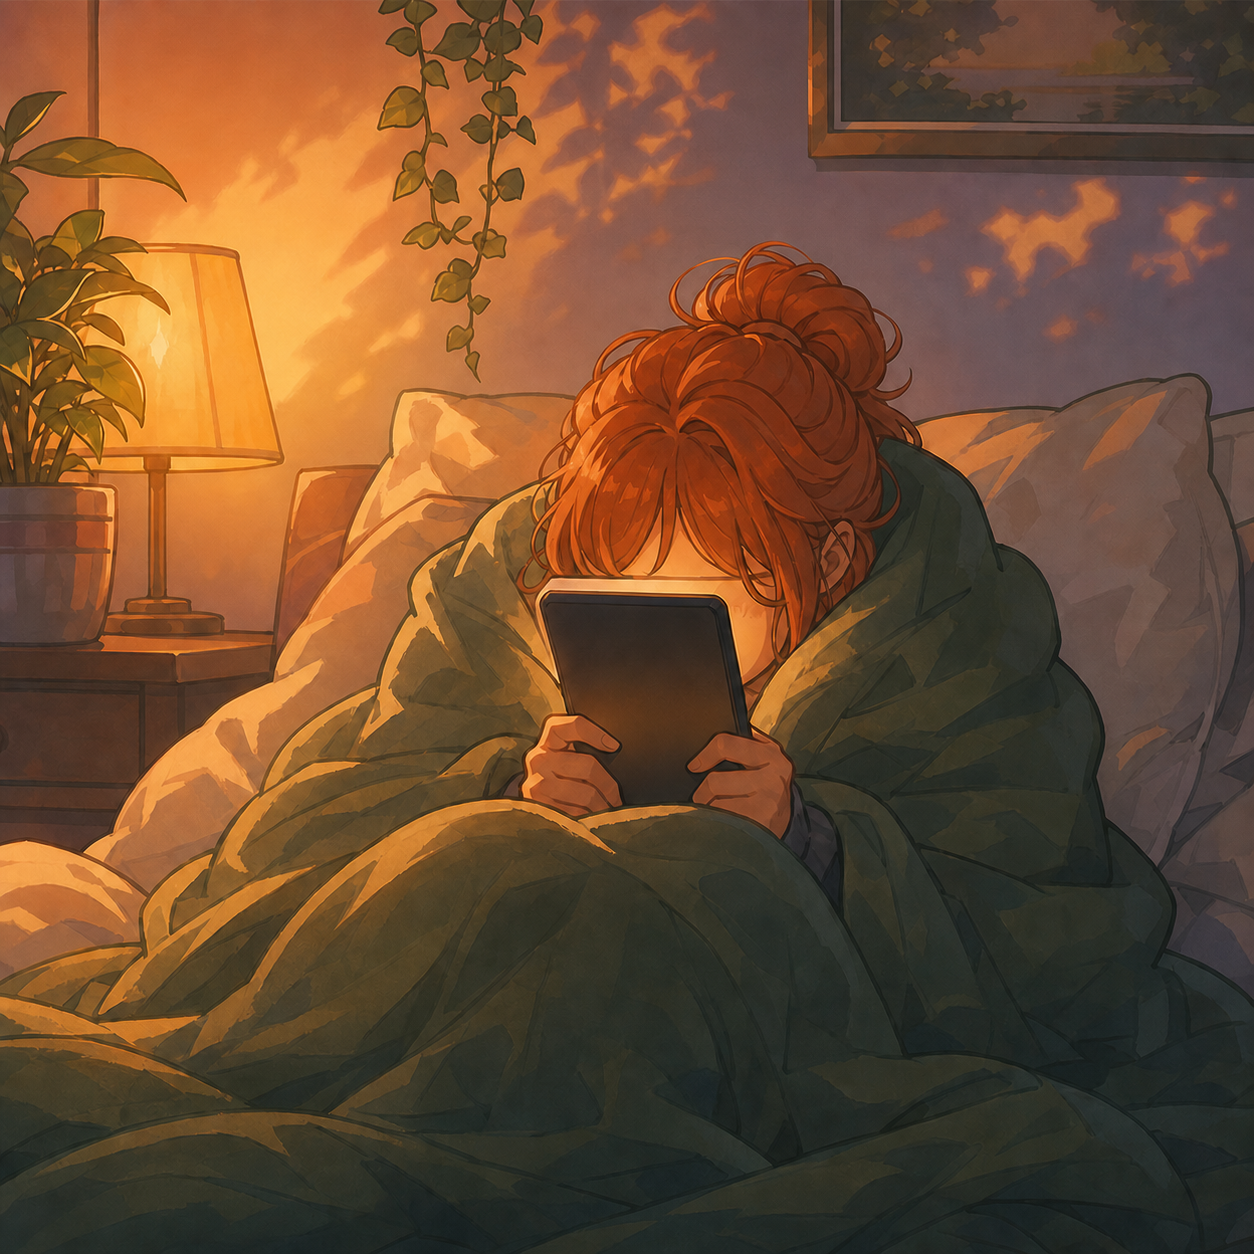
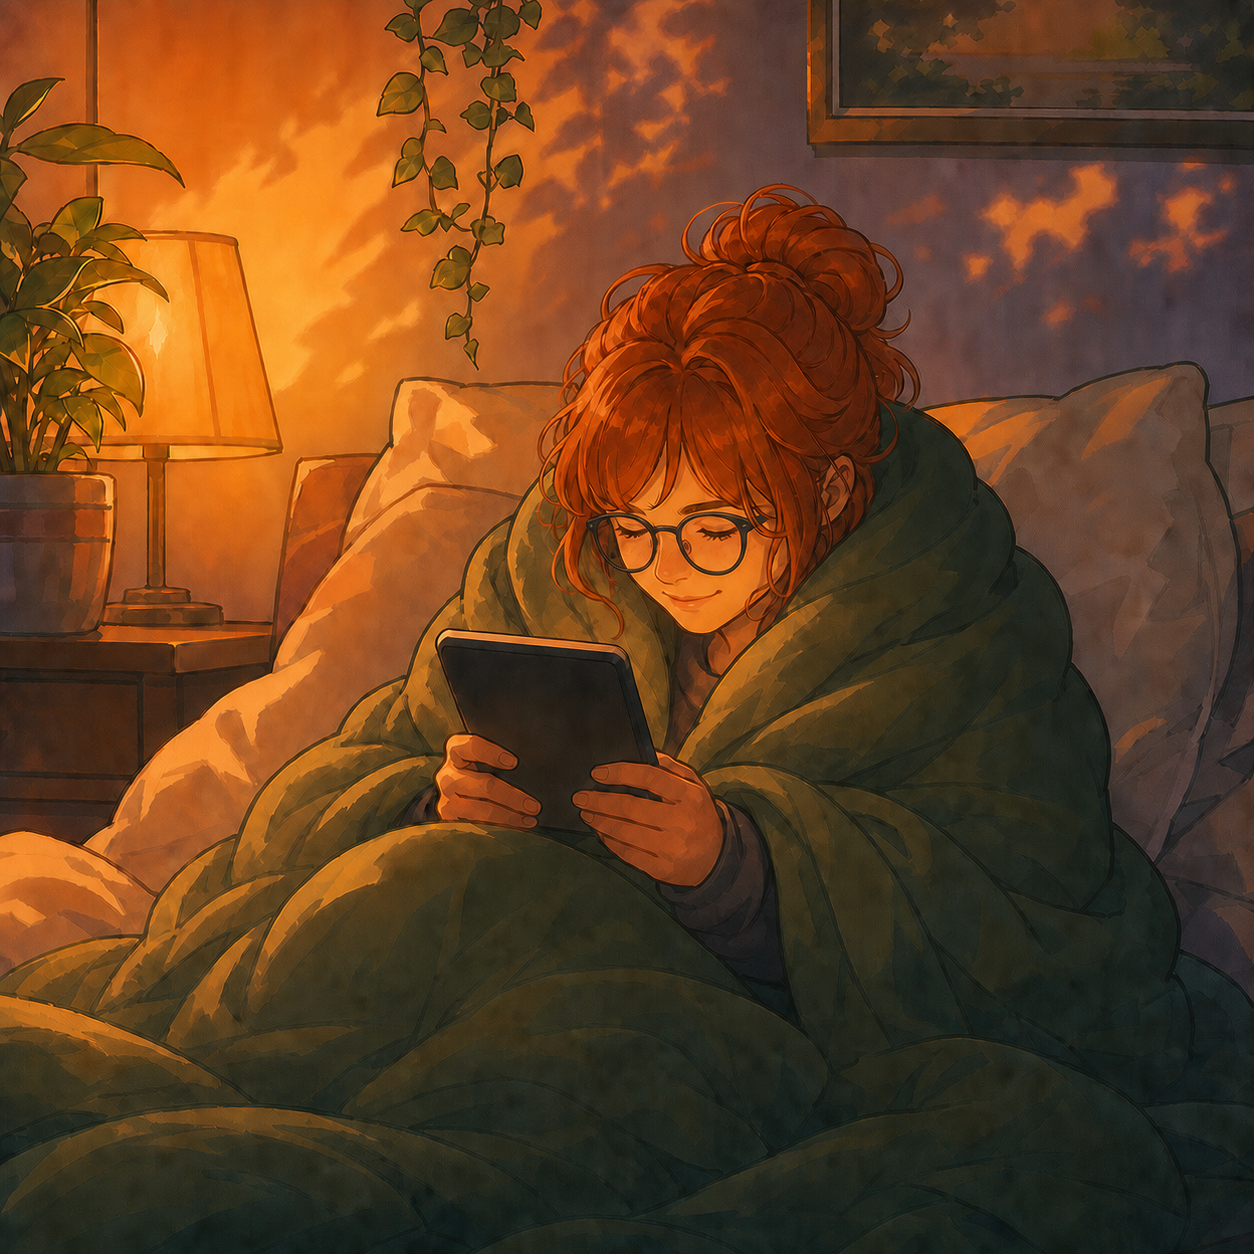
Animate preset artwork lighting

diff --git a/index.html b/index.html
@@ -207,8 +207,8 @@
     .toast{position:fixed;z-index:10;top:max(14px,env(safe-area-inset-top));left:50%;transform:translateX(-50%);border:1px solid var(--line);border-radius:999px;background:rgba(22,33,21,.92);padding:10px 15px;box-shadow:var(--shadow);font-size:13px;font-weight:800}
     .edit-backdrop{position:fixed;inset:0;z-index:9;display:grid;place-items:end center;background:rgba(0,0,0,.52);padding:18px}.edit-sheet{width:min(100%,420px);border:1px solid var(--line);border-radius:22px;background:#172116;padding:18px;box-shadow:var(--shadow)}.edit-sheet h2{margin:0 0 4px;font-family:Georgia,'Times New Roman',serif;font-size:24px}.edit-sheet p{margin:0 0 15px;color:var(--muted);font-size:13px}.edit-sheet label{display:block;margin:12px 0 6px;color:#f4efe6;font-size:12px;font-weight:900}.edit-sheet input{width:100%;border:1px solid rgba(179,199,137,.18);border-radius:11px;background:#090d08;color:#fff;padding:13px;font:inherit}.edit-actions{display:flex;justify-content:flex-end;gap:10px;margin-top:16px}.edit-actions .primary{background:var(--accent);color:#101708}
     .hidden{display:none}
-    .hero-img,.art-img{filter:brightness(var(--room-brightness,1)) saturate(var(--room-saturation,1)) contrast(var(--room-contrast,1)) hue-rotate(var(--room-hue,0deg));transition:filter 70s linear}
-    .hero:before,.thumb:before{content:"";position:absolute;inset:0;z-index:1;pointer-events:none;background:var(--room-light-gradient,transparent);opacity:var(--room-light-opacity,0);mix-blend-mode:var(--room-light-blend,soft-light);transition:background 70s linear,opacity 70s linear}.badge{z-index:2}.art-img{position:relative}.thumb:before{border-radius:16px}
+    .hero-img,.art-img{filter:brightness(var(--room-brightness,1)) saturate(var(--room-saturation,1)) contrast(var(--room-contrast,1)) hue-rotate(var(--room-hue,0deg));transition:filter 90s linear}
+    .hero:before,.thumb:before{content:"";position:absolute;inset:0;z-index:1;pointer-events:none;background:radial-gradient(circle at 50% 18%,rgba(255,247,214,var(--room-warmth-opacity,0)) 0,rgba(255,184,96,0) 42%),var(--room-light-gradient,transparent);opacity:var(--room-light-opacity,0);mix-blend-mode:var(--room-light-blend,soft-light);transition:background 90s linear,opacity 90s linear}.thumb:after{content:"";position:absolute;inset:0;z-index:1;pointer-events:none;background:linear-gradient(180deg,rgba(5,13,25,0) 28%,rgba(2,5,12,var(--room-night-opacity,0)) 100%);mix-blend-mode:soft-light;transition:background 90s linear}.thumb:before,.thumb:after{border-radius:16px}.badge{z-index:2}.art-img{position:relative}
     @media(max-width:760px){
       .app{padding:22px 16px 100px}.logo{width:54px;height:54px;border-radius:17px}.brand{gap:12px}.kicker{font-size:11px}.title{font-size:35px}.sync{padding:9px 12px;font-size:13px}.hero{min-height:280px;border-radius:24px}.hero-copy{left:24px;bottom:28px}.label{font-size:12px;margin-bottom:14px}.hero-name{font-size:34px}.emoji{font-size:30px}.details{font-size:16px;margin-bottom:18px}.timer{font-size:17px;padding:12px 15px}.section-head{margin-top:32px}.section-head h2{font-size:15px}.hint{font-size:15px}.presets{grid-template-columns:repeat(2,minmax(0,1fr));gap:12px}.preset{min-height:110px;flex-direction:column;align-items:flex-start;justify-content:flex-end;gap:14px;border-radius:18px;font-size:15px;padding:15px}.preset b{font-size:30px}.preset.active:after{font-size:9px;right:10px;top:9px}.quick{border-radius:18px;padding:16px}.quick-icon{width:46px;height:46px;border-radius:13px}.quick strong{font-size:15px}.quick small{font-size:13px}.chev{font-size:28px}.intro,.art-list{margin-left:0}.panel{margin-left:0;margin-right:0}.nav{padding:12px 24px max(12px,env(safe-area-inset-bottom))}.nav button{font-size:20px}.nav small{font-size:11px}
     }
@@ -227,19 +227,19 @@
   <nav class="nav"><button data-tab="home" class="sel"><span class="nav-icon"><svg viewBox="0 0 24 24" aria-hidden="true"><path class="fill" d="M4 11.2 12 4l8 7.2v8.3a1.5 1.5 0 0 1-1.5 1.5H15v-6H9v6H5.5A1.5 1.5 0 0 1 4 19.5z"/></svg></span><small>Home</small></button><button data-tab="artwork"><span class="nav-icon"><svg viewBox="0 0 24 24" aria-hidden="true"><rect x="4" y="5" width="16" height="14" rx="2"/><circle cx="9" cy="10" r="1.5"/><path d="m6.5 17 4.5-5 3 3 2-2.2 2.5 4.2"/></svg></span><small>Artwork</small></button><button data-tab="settings"><span class="nav-icon"><svg viewBox="0 0 24 24" aria-hidden="true"><circle cx="12" cy="12" r="3"/><path d="M12 2.8v3M12 18.2v3M4.5 4.5l2.1 2.1M17.4 17.4l2.1 2.1M2.8 12h3M18.2 12h3M4.5 19.5l2.1-2.1M17.4 6.6l2.1-2.1"/></svg></span><small>Settings</small></button><button data-tab="profile"><span class="nav-icon"><svg viewBox="0 0 24 24" aria-hidden="true"><circle class="fill" cx="12" cy="8" r="4"/><path class="fill" d="M4.5 21a7.5 7.5 0 0 1 15 0z"/></svg></span><small>Profile</small></button></nav>
 <script>
 const lightStops=[
-  {m:0,b:.46,s:.72,c:.96,h:-10,o:.58,blend:'multiply',g:['rgba(6,14,35,.82)','rgba(17,32,72,.62)','rgba(2,4,10,.58)']},
-  {m:300,b:.56,s:.80,c:.98,h:-6,o:.48,blend:'multiply',g:['rgba(9,23,50,.74)','rgba(42,48,88,.48)','rgba(5,7,14,.46)']},
-  {m:420,b:.92,s:1.05,c:1.02,h:3,o:.26,blend:'soft-light',g:['rgba(255,178,100,.40)','rgba(255,225,170,.20)','rgba(110,170,255,.15)']},
-  {m:720,b:1.03,s:1.05,c:1.02,h:0,o:.16,blend:'soft-light',g:['rgba(255,238,184,.20)','rgba(255,255,255,.08)','rgba(92,158,255,.10)']},
-  {m:1020,b:.88,s:1.12,c:1.05,h:-4,o:.34,blend:'soft-light',g:['rgba(255,137,74,.44)','rgba(224,88,110,.22)','rgba(47,61,112,.24)']},
-  {m:1230,b:.55,s:.82,c:.98,h:-10,o:.56,blend:'multiply',g:['rgba(15,31,69,.78)','rgba(35,46,100,.54)','rgba(4,6,14,.50)']},
-  {m:1440,b:.46,s:.72,c:.96,h:-10,o:.58,blend:'multiply',g:['rgba(6,14,35,.82)','rgba(17,32,72,.62)','rgba(2,4,10,.58)']}
+  {m:0,b:.43,s:.70,c:.96,h:-11,o:.62,w:.03,n:.72,blend:'multiply',g:['rgba(4,11,28,.88)','rgba(12,26,60,.68)','rgba(2,4,10,.62)']},
+  {m:300,b:.52,s:.78,c:.98,h:-7,o:.52,w:.05,n:.58,blend:'multiply',g:['rgba(8,21,48,.78)','rgba(34,45,84,.54)','rgba(4,7,14,.48)']},
+  {m:420,b:.93,s:1.06,c:1.02,h:3,o:.34,w:.42,n:.12,blend:'soft-light',g:['rgba(255,174,94,.50)','rgba(255,224,166,.24)','rgba(112,166,255,.16)']},
+  {m:720,b:1.04,s:1.06,c:1.02,h:0,o:.18,w:.18,n:0,blend:'soft-light',g:['rgba(255,238,184,.20)','rgba(255,255,255,.08)','rgba(92,158,255,.10)']},
+  {m:1020,b:.90,s:1.12,c:1.05,h:-4,o:.40,w:.48,n:.18,blend:'soft-light',g:['rgba(255,137,74,.52)','rgba(224,88,110,.25)','rgba(47,61,112,.28)']},
+  {m:1230,b:.54,s:.81,c:.98,h:-10,o:.58,w:.08,n:.60,blend:'multiply',g:['rgba(13,28,66,.82)','rgba(31,43,96,.58)','rgba(4,6,14,.54)']},
+  {m:1440,b:.43,s:.70,c:.96,h:-11,o:.62,w:.03,n:.72,blend:'multiply',g:['rgba(4,11,28,.88)','rgba(12,26,60,.68)','rgba(2,4,10,.62)']}
 ];
 function hexish(rgba){return rgba}
 function num(a,b,t){return a+(b-a)*t}
 function rgbaParts(v){return v.match(/[\d.]+/g).map(Number)}
 function rgbaMix(a,b,t){let x=rgbaParts(a),y=rgbaParts(b);return `rgba(${Math.round(num(x[0],y[0],t))},${Math.round(num(x[1],y[1],t))},${Math.round(num(x[2],y[2],t))},${num(x[3],y[3],t).toFixed(3)})`}
-function setRoomLighting(){let d=new Date(),m=d.getHours()*60+d.getMinutes()+d.getSeconds()/60,stop=lightStops[0],next=lightStops[1];for(let i=0;i<lightStops.length-1;i++){if(m>=lightStops[i].m&&m<lightStops[i+1].m){stop=lightStops[i];next=lightStops[i+1];break}}let t=(m-stop.m)/(next.m-stop.m);t=t*t*(3-2*t);let root=document.documentElement.style;root.setProperty('--room-brightness',num(stop.b,next.b,t).toFixed(3));root.setProperty('--room-saturation',num(stop.s,next.s,t).toFixed(3));root.setProperty('--room-contrast',num(stop.c,next.c,t).toFixed(3));root.setProperty('--room-hue',num(stop.h,next.h,t).toFixed(2)+'deg');root.setProperty('--room-light-opacity',num(stop.o,next.o,t).toFixed(3));root.setProperty('--room-light-blend',t>.5?next.blend:stop.blend);root.setProperty('--room-light-gradient',`linear-gradient(105deg,${rgbaMix(stop.g[0],next.g[0],t)},${rgbaMix(stop.g[1],next.g[1],t)} 48%,${rgbaMix(stop.g[2],next.g[2],t)})`)}
+function setRoomLighting(){let d=new Date(),m=d.getHours()*60+d.getMinutes()+d.getSeconds()/60,stop=lightStops[0],next=lightStops[1];for(let i=0;i<lightStops.length-1;i++){if(m>=lightStops[i].m&&m<lightStops[i+1].m){stop=lightStops[i];next=lightStops[i+1];break}}let t=(m-stop.m)/(next.m-stop.m);t=t*t*(3-2*t);let root=document.documentElement.style;root.setProperty('--room-brightness',num(stop.b,next.b,t).toFixed(3));root.setProperty('--room-saturation',num(stop.s,next.s,t).toFixed(3));root.setProperty('--room-contrast',num(stop.c,next.c,t).toFixed(3));root.setProperty('--room-hue',num(stop.h,next.h,t).toFixed(2)+'deg');root.setProperty('--room-light-opacity',num(stop.o,next.o,t).toFixed(3));root.setProperty('--room-warmth-opacity',num(stop.w,next.w,t).toFixed(3));root.setProperty('--room-night-opacity',num(stop.n,next.n,t).toFixed(3));root.setProperty('--room-light-blend',t>.5?next.blend:stop.blend);root.setProperty('--room-light-gradient',`linear-gradient(105deg,${rgbaMix(stop.g[0],next.g[0],t)},${rgbaMix(stop.g[1],next.g[1],t)} 48%,${rgbaMix(stop.g[2],next.g[2],t)})`)}
 const FIXED_PLAYING="Kizzy's Corner";
 const defaultPresets=[
   {id:'awake',icon:'\u2600\uFE0F',name:'Awake',details:'Awake and caffeinating',state:'\u2615 Coffee brewed',art:'assets/awake.jpg',artworkKey:'awake'},

diff --git a/sw.js b/sw.js
@@ -1,4 +1,4 @@
-const CACHE='lofi-room-v21';
+const CACHE='lofi-room-v22';
 const ASSETS=['./','index.html','manifest.webmanifest','icon.svg','presets.json','assets/awake.jpg','assets/busy.jpg','assets/away.jpg','assets/ems.jpg','assets/training.jpg','assets/chilling.jpg'];
 self.addEventListener('install',event=>{event.waitUntil(caches.open(CACHE).then(cache=>cache.addAll(ASSETS)));self.skipWaiting();});
 self.addEventListener('activate',event=>{event.waitUntil(caches.keys().then(keys=>Promise.all(keys.filter(key=>key!==CACHE).map(key=>caches.delete(key)))));self.clients.claim();});
